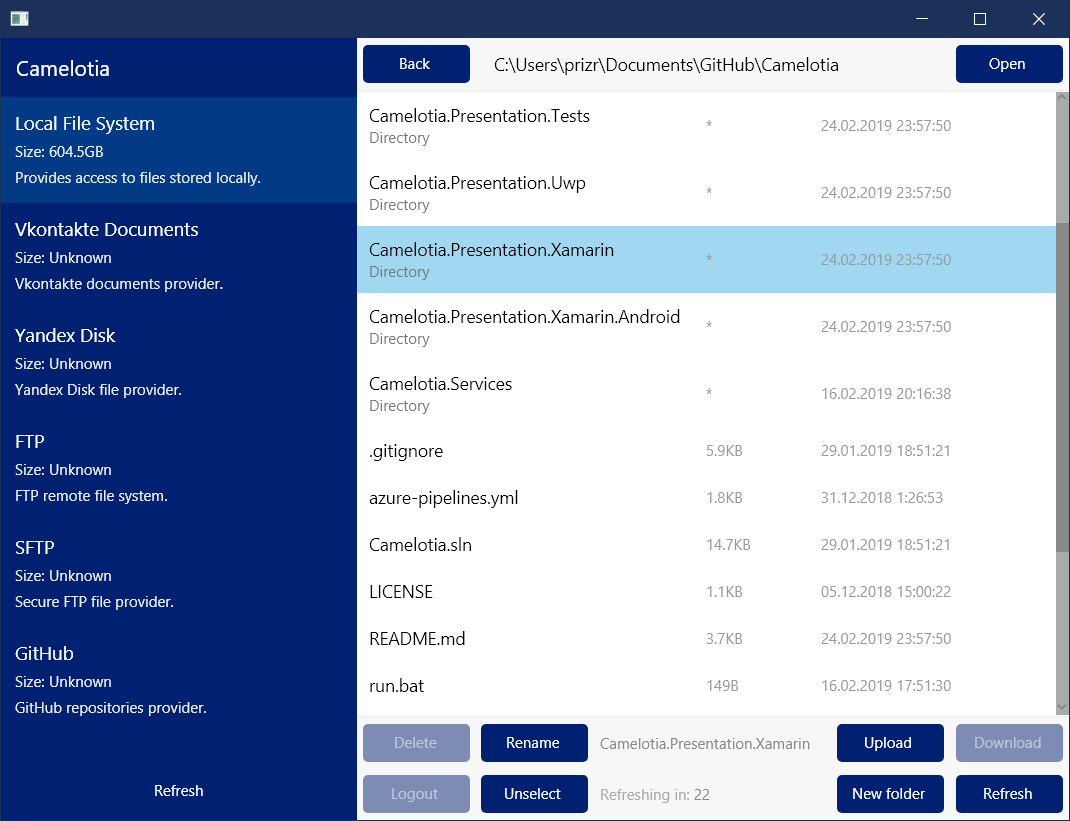
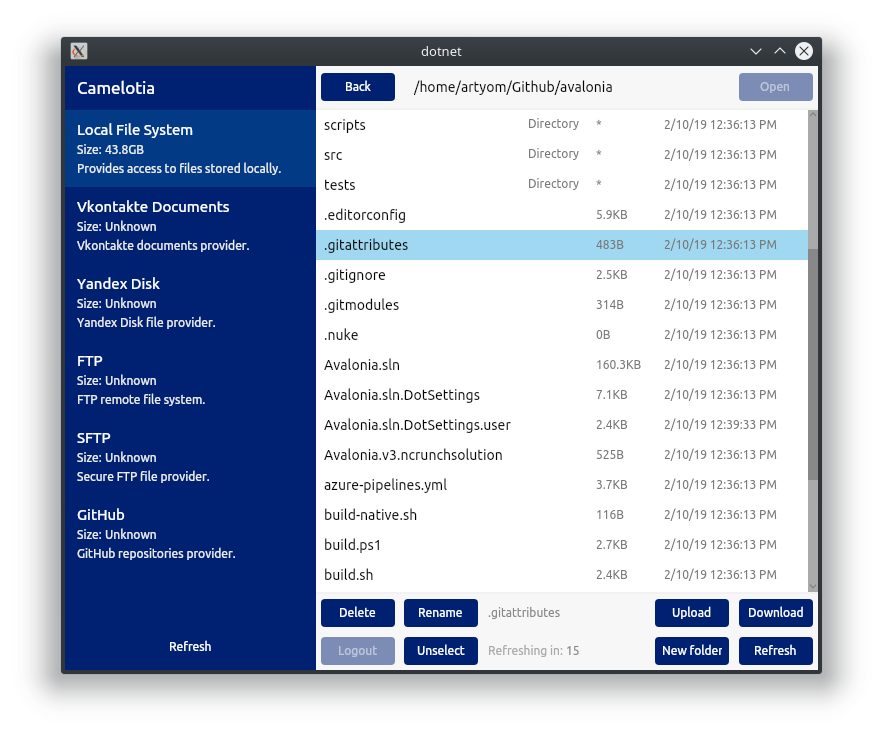
Avalonia app UI improvements

diff --git a/Camelotia.Presentation.Avalonia/Views/ProviderView.xaml b/Camelotia.Presentation.Avalonia/Views/ProviderView.xaml
@@ -46,28 +46,29 @@
                              SelectedItem="{Binding SelectedFile, Mode=TwoWay}">
                         <ListBox.ItemTemplate>
                             <DataTemplate DataType="models:FileModel">
-                                <Grid>
+                                <Grid Margin="6">
                                     <Grid.ColumnDefinitions>
                                         <ColumnDefinition Width="3*" />
                                         <ColumnDefinition Width="1*" />
+                                        <ColumnDefinition Width="1*" />
                                         <ColumnDefinition Width="2*" />
                                     </Grid.ColumnDefinitions>
-                                    <StackPanel Margin="8" Grid.Column="0">
-                                        <TextBlock Text="{Binding Name}"
-                                                   TextWrapping="Wrap"
-                                                   FontSize="14" />
-                                        <TextBlock Text="Directory"
-                                                   IsVisible="{Binding IsFolder}"
-                                                   Foreground="#777777"
-                                                   FontSize="12" />
-                                    </StackPanel>
+                                    <TextBlock Grid.Column="0"
+                                               Text="{Binding Name}"
+                                               TextWrapping="Wrap"
+                                               FontSize="14" />
                                     <TextBlock Grid.Column="1"
-                                               VerticalAlignment="Center"
-                                               Foreground="#999999"
-                                               Text="{Binding Size}" />
+                                               Text="Directory"
+                                               IsVisible="{Binding IsFolder}"
+                                               Foreground="#777777"
+                                               FontSize="12" />
                                     <TextBlock Grid.Column="2"
                                                VerticalAlignment="Center"
-                                               Foreground="#999999"
+                                               Foreground="#777777"
+                                               Text="{Binding Size}" />
+                                    <TextBlock Grid.Column="3"
+                                               VerticalAlignment="Center"
+                                               Foreground="#777777"
                                                Text="{Binding Modified}" />
                                 </Grid>
                             </DataTemplate>
